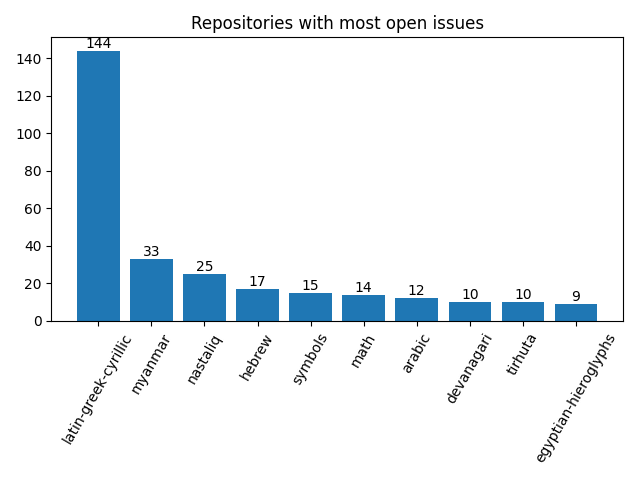
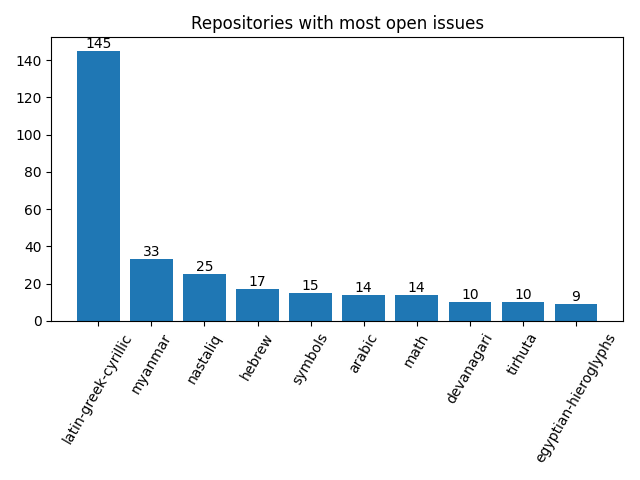
Apply automatic changes

diff --git a/docs/analytics.html b/docs/analytics.html
@@ -119,7 +119,7 @@ td .material-icons { display:inline-flex; vertical-align: top; font-size:1.1rem;
 						</tr>
 						<tr>
 							<td>Nov</td>
-							<td>0</td>
+							<td>3</td>
 							<td>0</td>
 						</tr>
 					</table>
@@ -140,7 +140,7 @@ td .material-icons { display:inline-flex; vertical-align: top; font-size:1.1rem;
 							<td>
 								<a href="http://github.com/notofonts/latin-greek-cyrillic/issues">latin-greek-cyrillic</a>
 							</td>
-							<td>144</td>
+							<td>145</td>
 						</tr>
 						<tr>
 							<td>
@@ -168,15 +168,15 @@ td .material-icons { display:inline-flex; vertical-align: top; font-size:1.1rem;
 						</tr>
 						<tr>
 							<td>
-								<a href="http://github.com/notofonts/math/issues">math</a>
+								<a href="http://github.com/notofonts/arabic/issues">arabic</a>
 							</td>
 							<td>14</td>
 						</tr>
 						<tr>
 							<td>
-								<a href="http://github.com/notofonts/arabic/issues">arabic</a>
+								<a href="http://github.com/notofonts/math/issues">math</a>
 							</td>
-							<td>12</td>
+							<td>14</td>
 						</tr>
 						<tr>
 							<td>
@@ -280,13 +280,13 @@ td .material-icons { display:inline-flex; vertical-align: top; font-size:1.1rem;
 						<tr>
 							<td>1</td>
 							<td>
-									<a href="http://github.com/notofonts/latin-greek-cyrillic/issues">latin-greek-cyrillic</a>: 144, 
+									<a href="http://github.com/notofonts/latin-greek-cyrillic/issues">latin-greek-cyrillic</a>: 145, 
 
 									<a href="http://github.com/notofonts/nastaliq/issues">nastaliq</a>: 25, 
 
 									<a href="http://github.com/notofonts/hebrew/issues">hebrew</a>: 17, 
 
-									<a href="http://github.com/notofonts/arabic/issues">arabic</a>: 12, 
+									<a href="http://github.com/notofonts/arabic/issues">arabic</a>: 14, 
 
 									<a href="http://github.com/notofonts/devanagari/issues">devanagari</a>: 10, 
 
